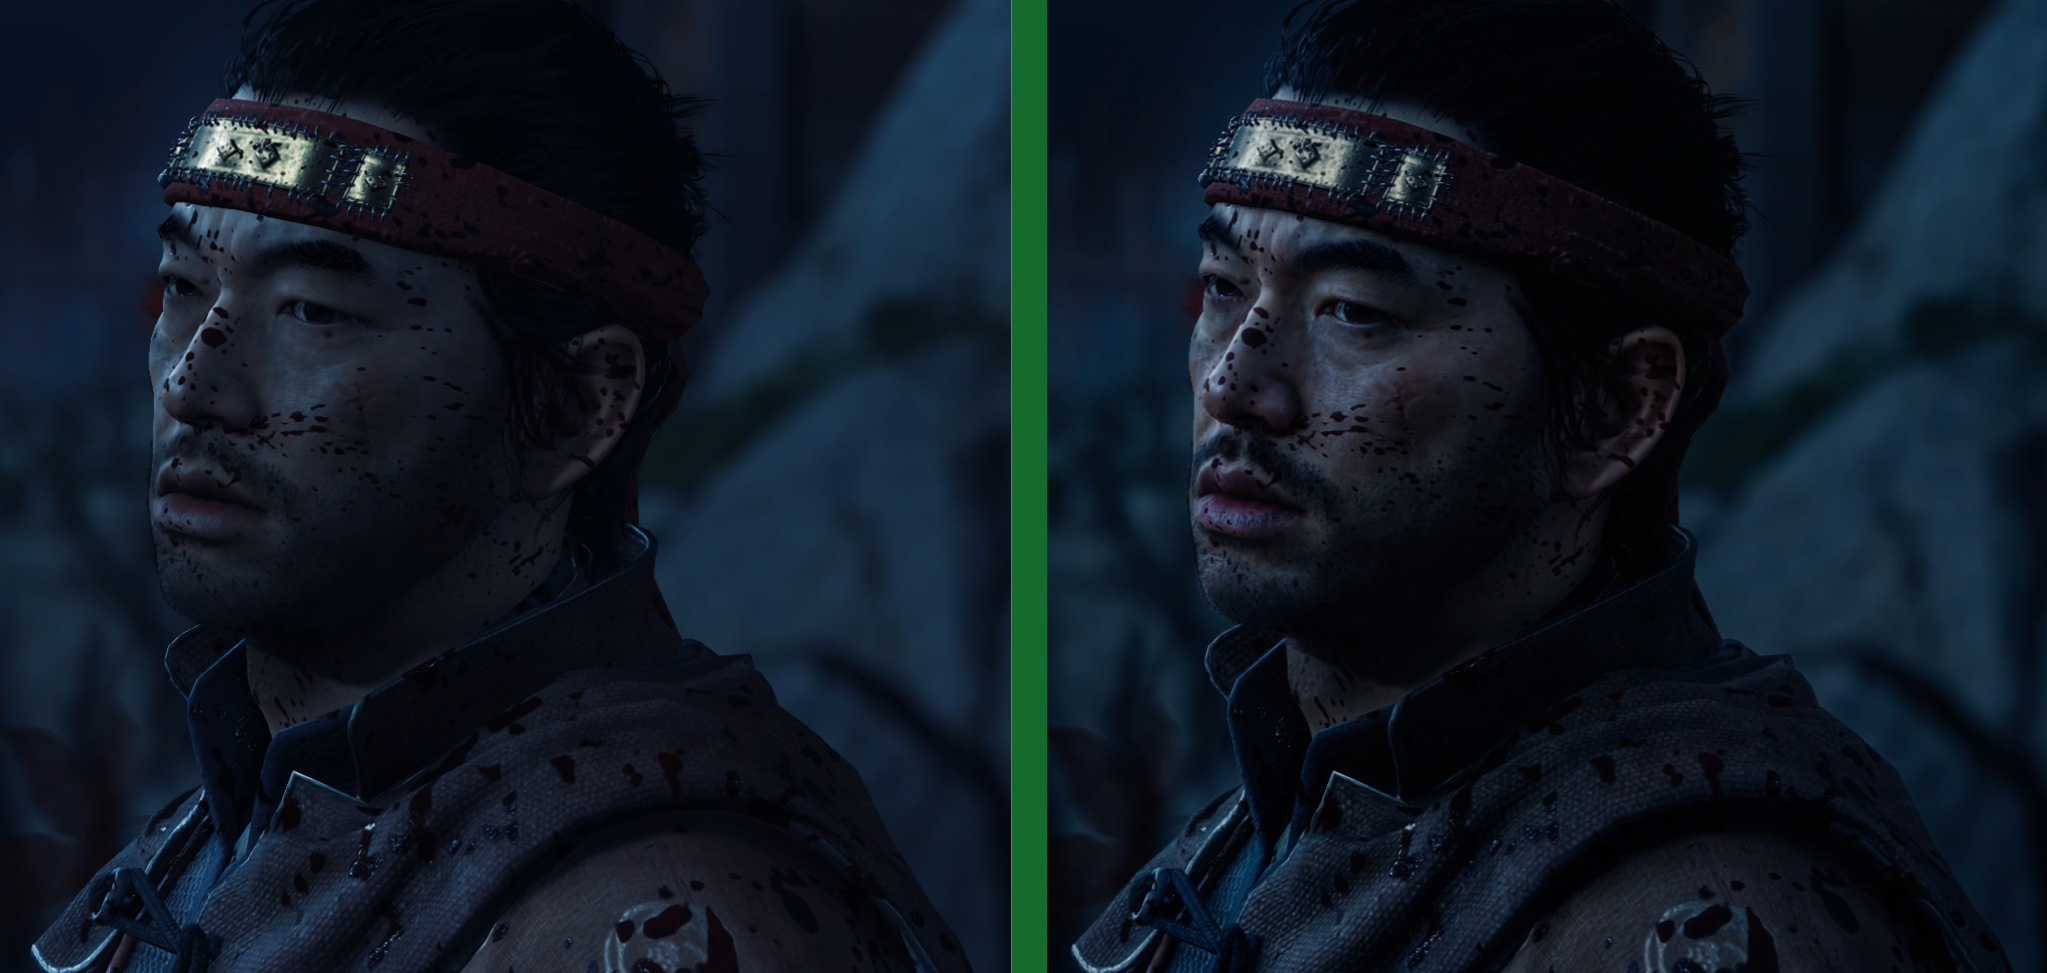
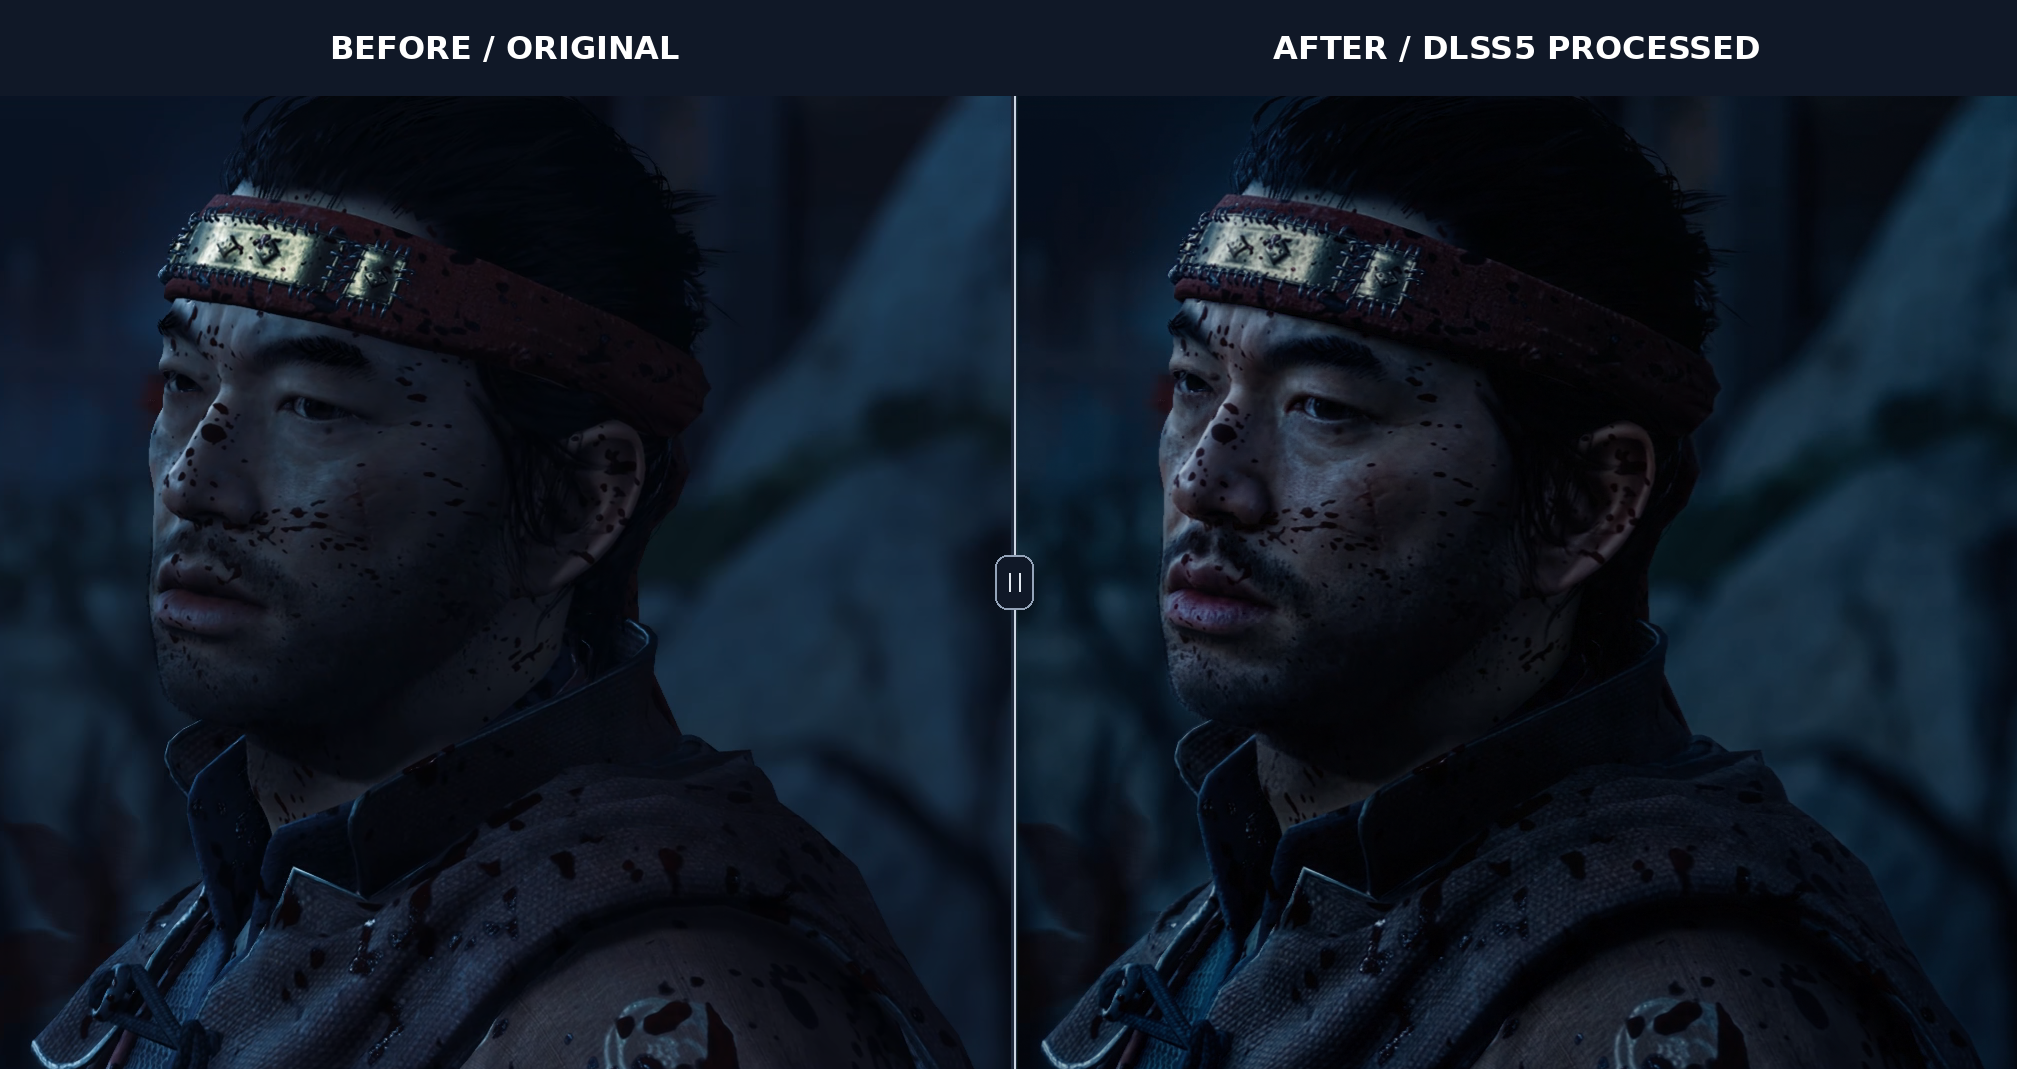
Label original and DLSS5 comparison with refined divider

diff --git a/README.md b/README.md
@@ -126,9 +126,9 @@ it directly to the public internet.
 
 Framecraft’s still-image preview with Natural selected. Temporal video results may differ.
 
-![Close-up comparison of the processed frame on the left and the original frame on the right](docs/images/editor-example2.png)
+![Close-up comparison of the original frame on the left and the DLSS5-processed frame on the right](docs/images/editor-example2.png)
 
-**Left: After (processed). Right: Before (original).**
+**Left: Before (original). Right: After (DLSS5 processed).**
 
 Start with a 5–10 second SDR recording on your compatible Windows RTX machine.
 
